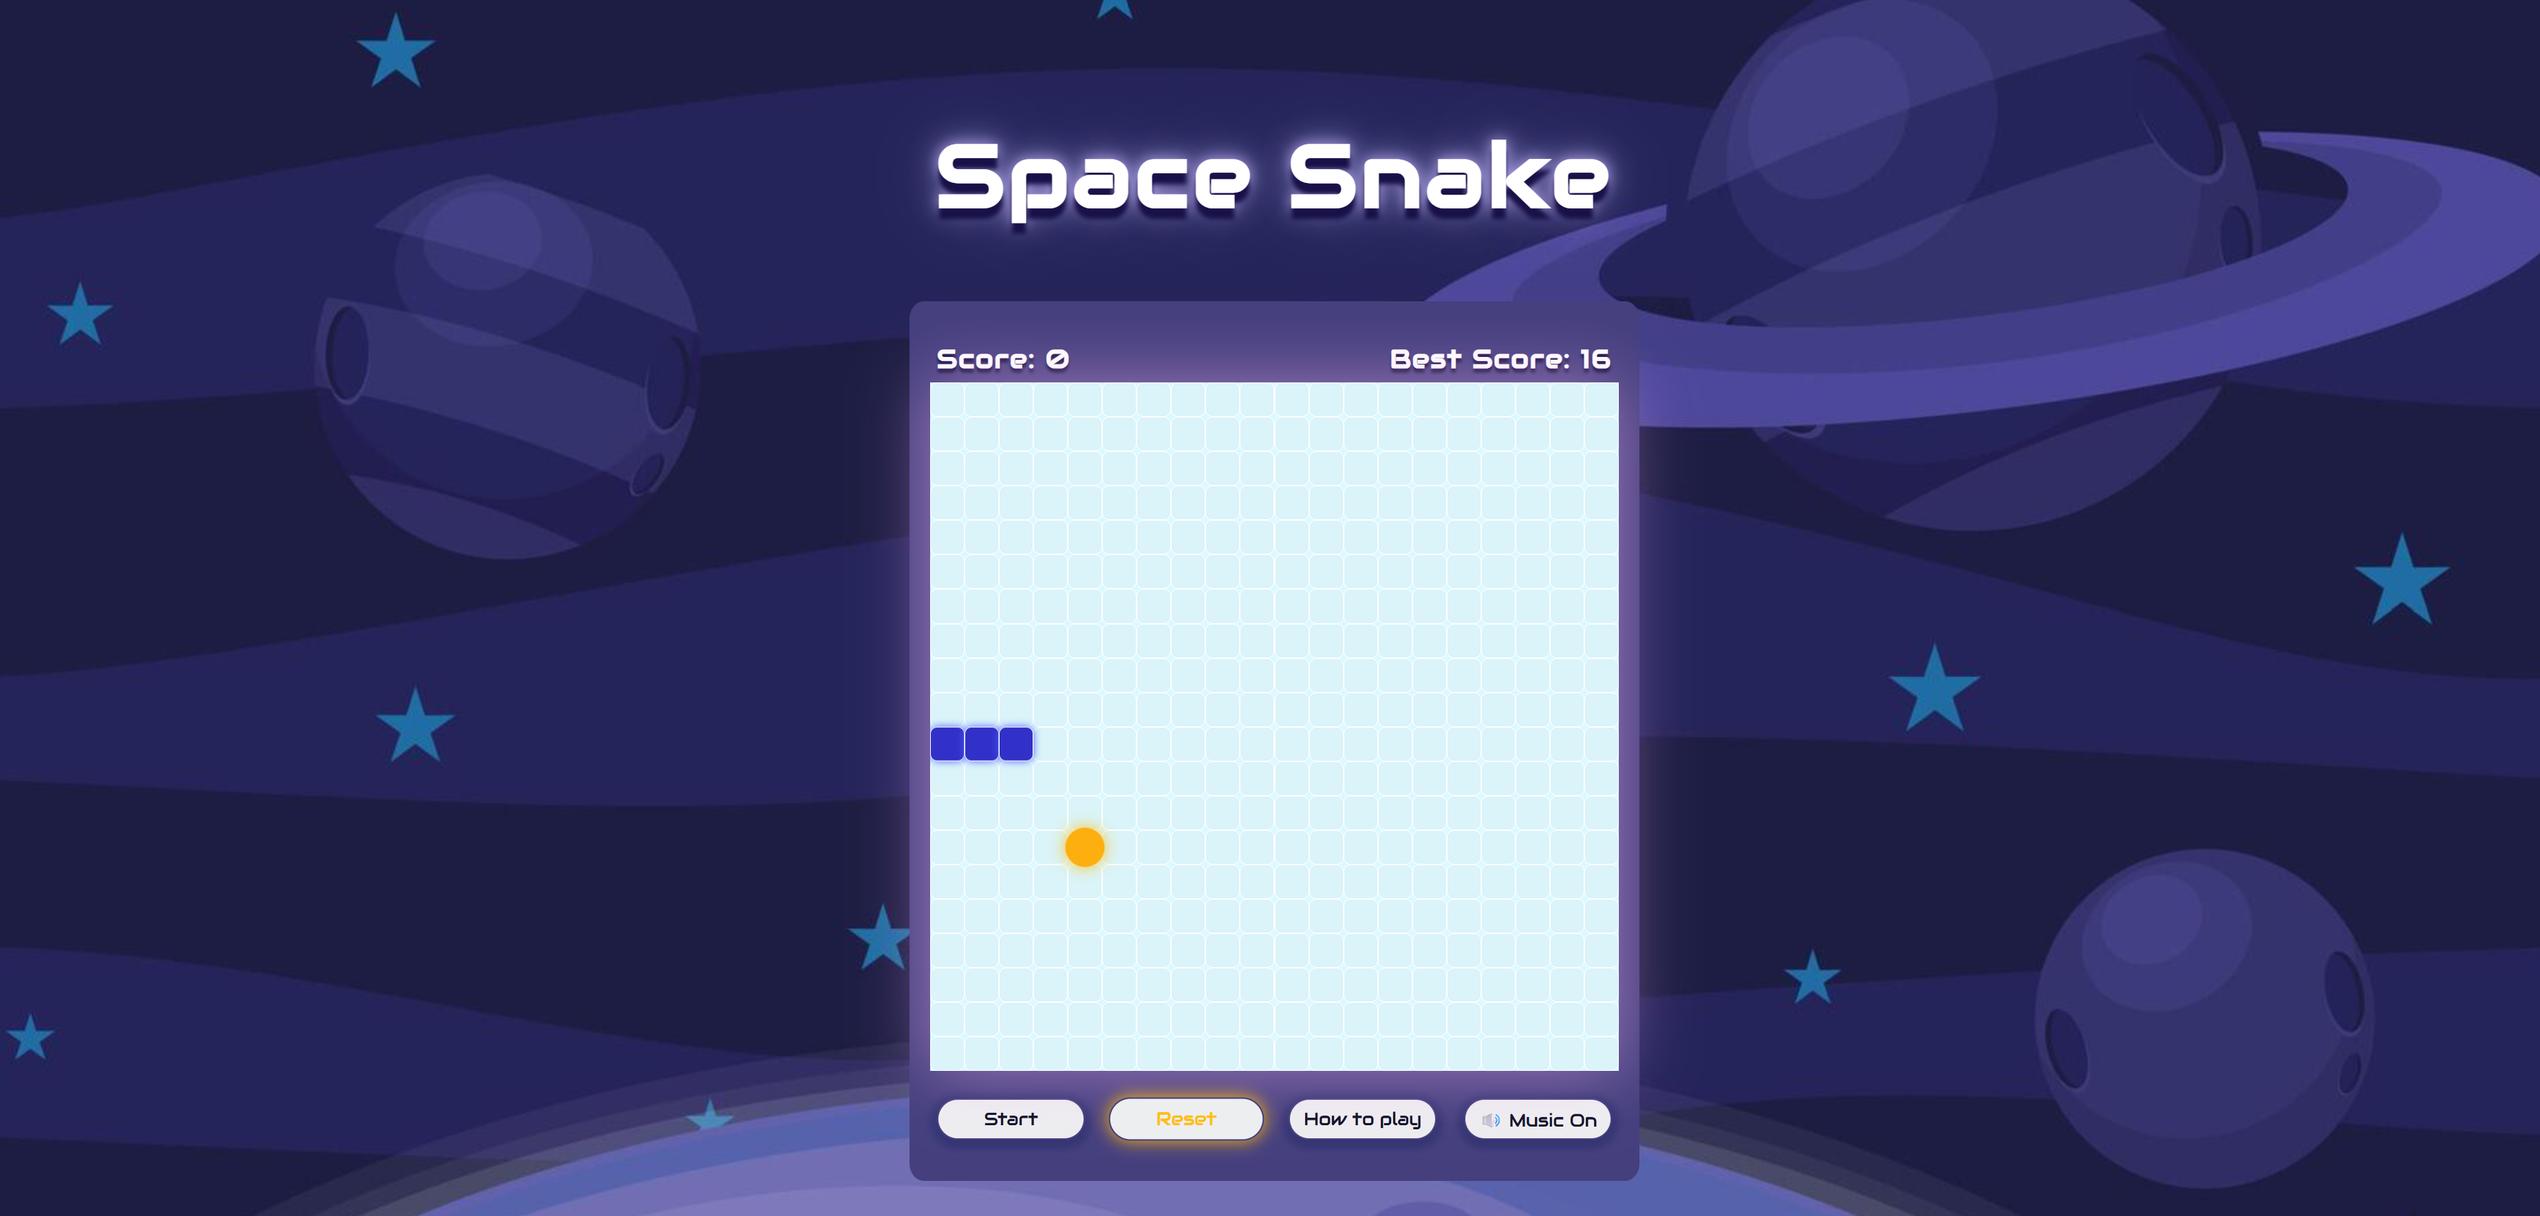
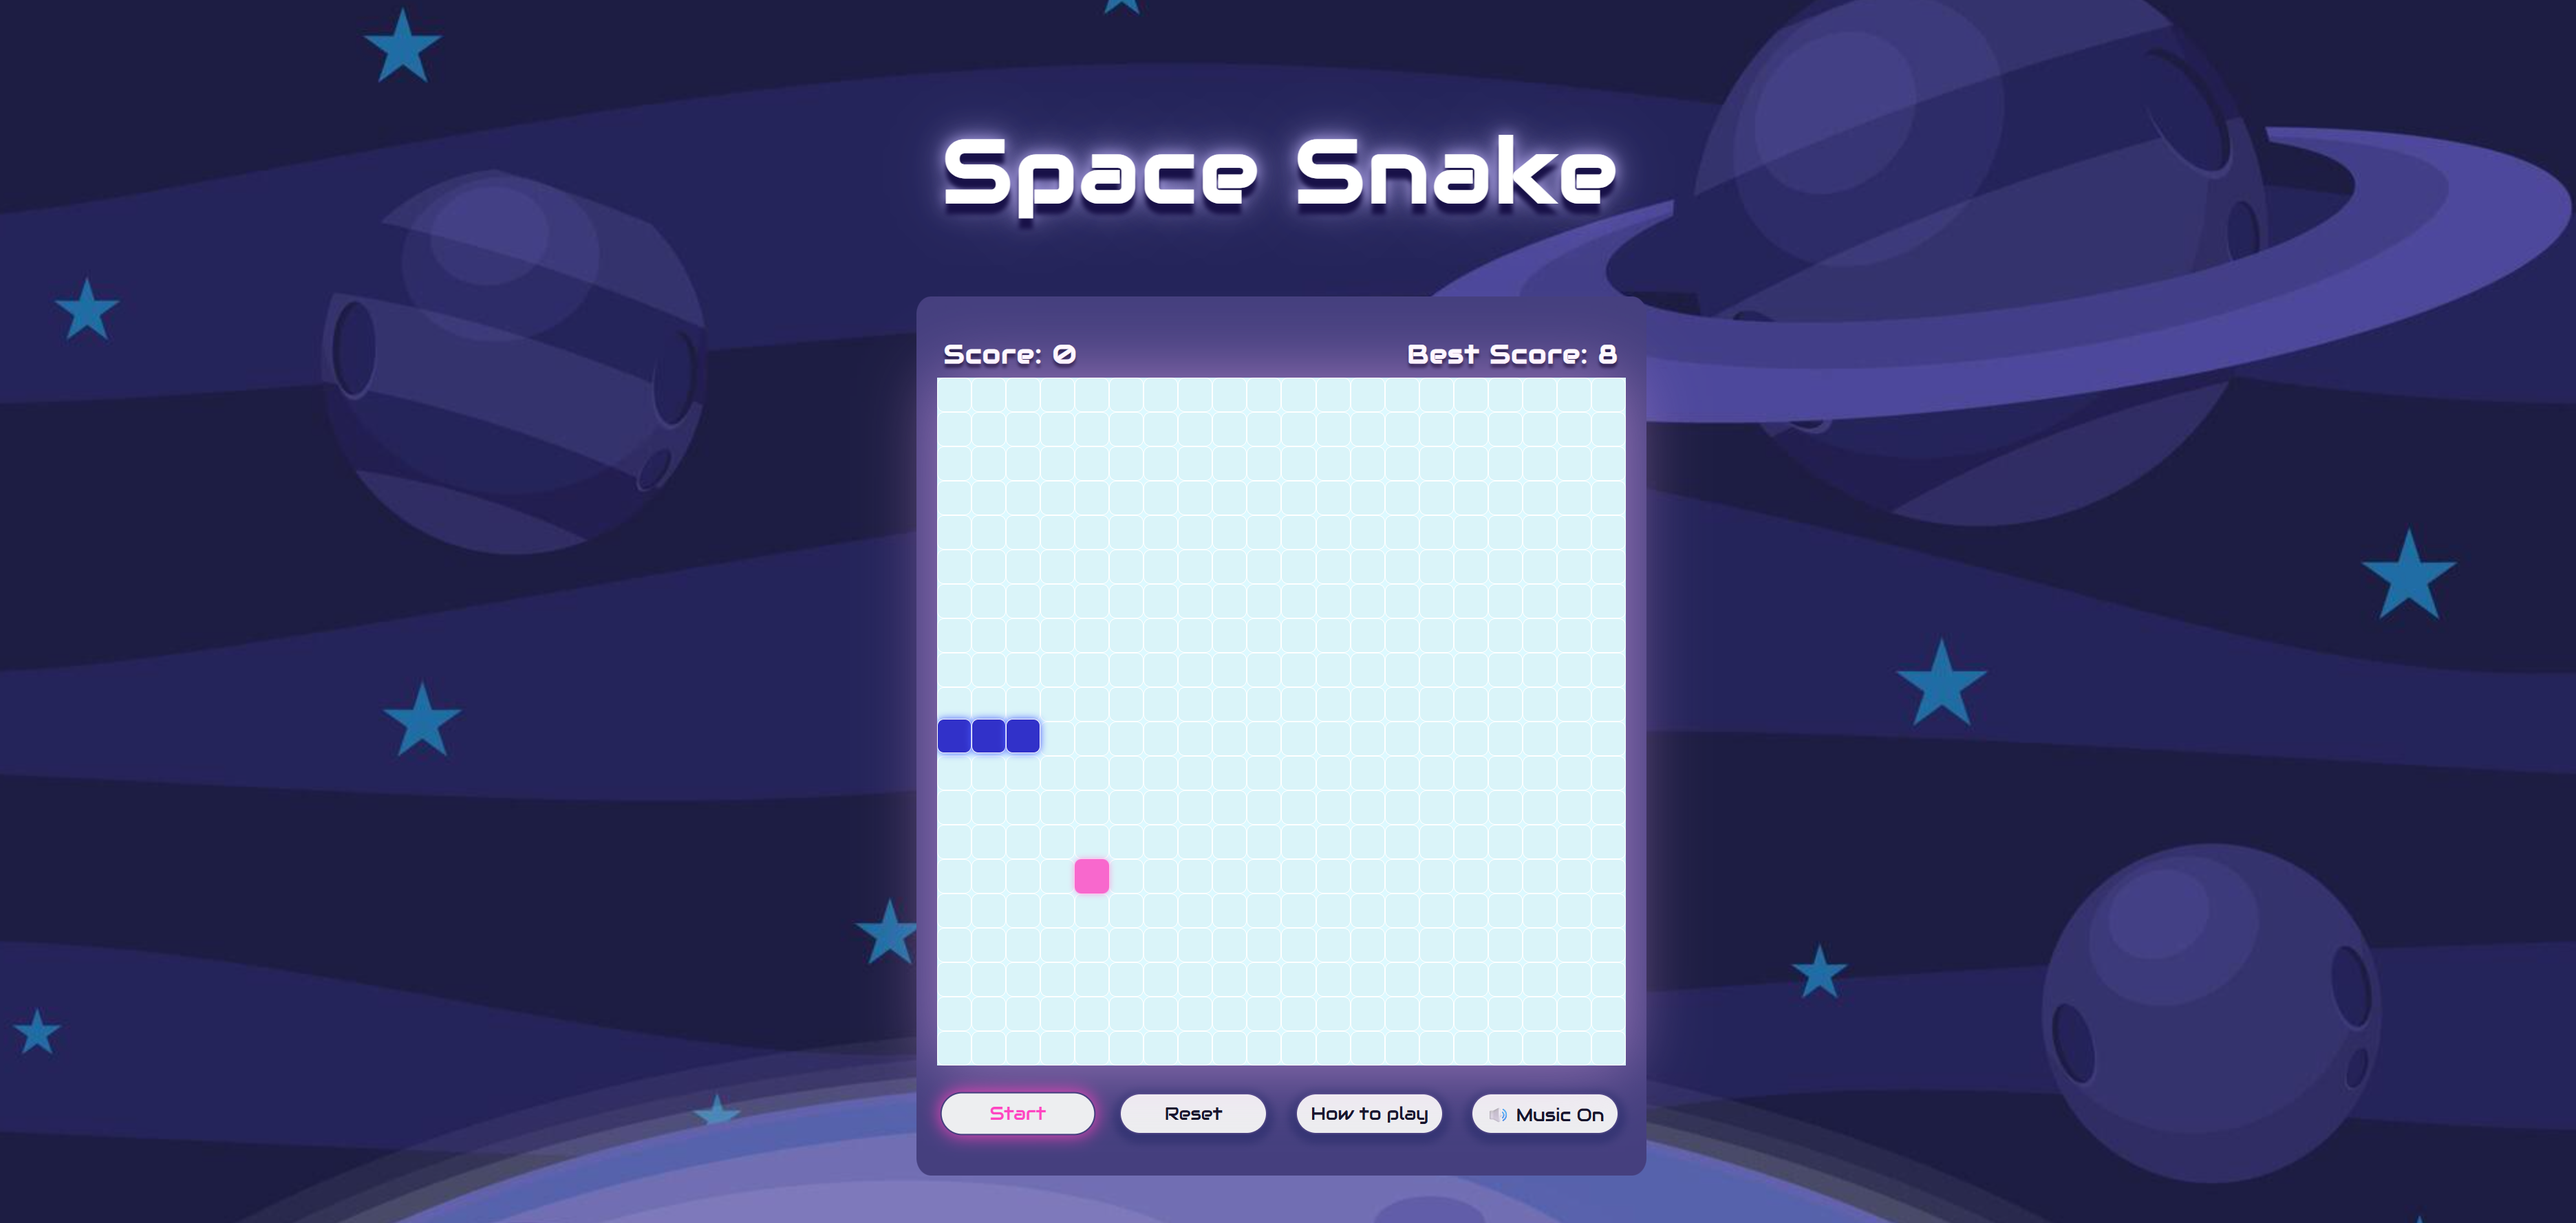
UI Improvements

diff --git a/css/style.css b/css/style.css
@@ -79,8 +79,8 @@ button {
 }
 
 button:hover {
-  color: #febd17;
-  box-shadow: 0 0 12px #ffbb0f;
+  color: #ff45c1;
+  box-shadow: 0 0 12px #ff45c1;
   transform: scale(1.05);
   transition: 0.3s;
 }
@@ -140,16 +140,15 @@ h3 {
 }
 
 .instructions button:hover {
-  color: #ffbb0f;
+  color: #ff45c1;
   transform: scale(1.05);
   transition: 0.3s;
 }
 
 .food {
-  background-color: #ffaa00;
-  border-radius: 50%;
+  background-color: #ff45c1;
   transition: transform 0.3s ease;
-  box-shadow: 0 0 10px #ffbb00;
+  box-shadow: 0 0 5px #ff87d7;
   border: none;
 }
 
